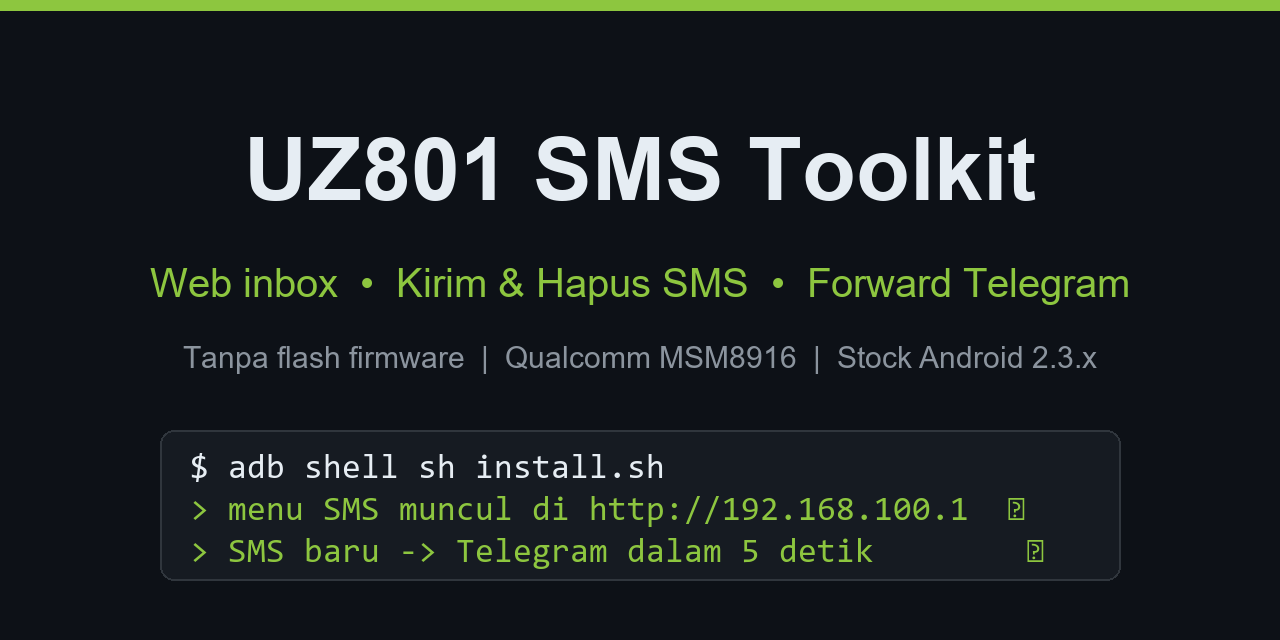
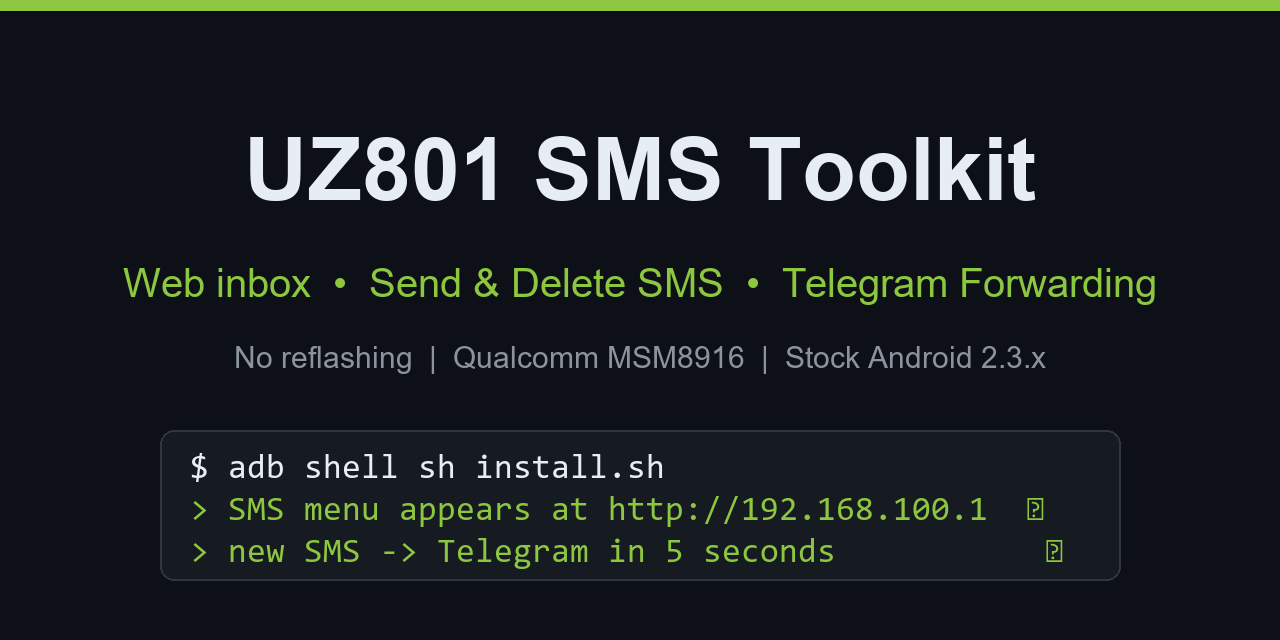
Translate README, About description and social preview to English
Targets the international hacking/modding community; repo language
is now consistently English across docs, metadata and artwork.

🤖 Generated with Codebuff

diff --git a/.github/make_social_preview.py b/.github/make_social_preview.py
@@ -1,5 +1,8 @@
 """Generate GitHub social preview image (1280x640) for uz801-tools repo."""
+import os
 from PIL import Image, ImageDraw, ImageFont
+
+OUT = os.path.join(os.path.dirname(os.path.abspath(__file__)), "social-preview.png")
 
 W, H = 1280, 640
 GREEN = (141, 198, 63)     # aksen web UI modem
@@ -26,19 +29,19 @@ def center(text, font, y, fill):
     d.text(((W - w) / 2, y), text, font=font, fill=fill)
 
 center("UZ801 SMS Toolkit", f_title, 120, WHITE)
-center("Web inbox  •  Kirim & Hapus SMS  •  Forward Telegram", f_sub, 260, GREEN)
-center("Tanpa flash firmware  |  Qualcomm MSM8916  |  Stock Android 2.3.x", f_small, 340, GRAY)
+center("Web inbox  •  Send & Delete SMS  •  Telegram Forwarding", f_sub, 260, GREEN)
+center("No reflashing  |  Qualcomm MSM8916  |  Stock Android 2.3.x", f_small, 340, GRAY)
 
 # fake terminal card
 tx, ty, tw, th = 160, 430, 960, 150
 d.rounded_rectangle([tx, ty, tx + tw, ty + th], radius=14, fill=(22, 27, 34), outline=(48, 54, 61), width=2)
 lines = [
     ("$ adb shell sh install.sh", WHITE),
-    ("> menu SMS muncul di http://192.168.100.1  ✓", GREEN),
-    ("> SMS baru -> Telegram dalam 5 detik        ✓", GREEN),
+    ("> SMS menu appears at http://192.168.100.1  ✓", GREEN),
+    ("> new SMS -> Telegram in 5 seconds           ✓", GREEN),
 ]
 for i, (t, c) in enumerate(lines):
     d.text((tx + 30, ty + 22 + i * 42), t, font=f_mono, fill=c)
 
-img.save("uz801-tools/.github/social-preview.png")
-print("saved uz801-tools/.github/social-preview.png", img.size)
+img.save(OUT)
+print("saved", OUT, img.size)

diff --git a/README.md b/README.md
@@ -1,78 +1,81 @@
 # UZ801 SMS Toolkit 📱
 
-Tambahkan fitur SMS lengkap ke modem 4G **UZ801 V3.2** (chipset Qualcomm MSM8916)
-**tanpa flash firmware** — inbox SMS tampil di web admin bawaan modem, bisa hapus/kirim
-SMS, auto-forward ke **Telegram**, plus bot dengan perintah `/refresh`.
+Add full SMS features to the **UZ801 V3.2** 4G modem (Qualcomm MSM8916)
+**without reflashing the firmware** — an SMS inbox appears in the modem's stock web
+admin, you can delete/send SMS, auto-forward incoming messages to **Telegram**, and
+control everything with a `/refresh` bot command.
 
-> Dikembangkan & diuji pada firmware stock Android `v2.3.11` (AT firmware
-> `UZ801_V3.0_21_V01R01B10`), papan `FY_UZ801_3.2`, operator Tri (Indonesia).
-> Prinsipnya seharusnya bekerja juga di firmware stock Android 2.3.x lain dan
-> dongle sejenis (UFI001B/C, UF896) — konfirmasi hasil di [Issues](https://github.com/rioadrian24/uz801-tools/issues)!
+> Developed and tested on stock Android firmware `v2.3.11` (AT firmware
+> `UZ801_V3.0_21_V01R01B10`), board `FY_UZ801_3.2`, carrier Tri (Indonesia).
+> The approach should also work on other stock Android 2.3.x builds and similar
+> dongles (UFI001B/C, UF896) — please report your results in the
+> [Issues](https://github.com/rioadrian24/uz801-tools/issues) page!
 
-## Fitur
+## Features
 
-| Fitur | Keterangan |
+| Feature | Details |
 |---|---|
-| 🖥 **Web inbox** | Menu **SMS** baru di web admin modem (`http://192.168.100.1`), auto-refresh 10 detik |
-| 🗑 **Hapus SMS** | Per pesan, langsung dari database Android |
-| ✉ **Kirim SMS** | Dari web UI (teks ASCII) |
-| 🤖 **Forward Telegram** | SMS masuk otomatis diteruskan ke chat Telegram Anda dalam ~5–10 detik |
-| 💬 **Bot dua arah** | `/refresh`, `/status`, `/help` dibalas langsung oleh modem |
-| 🔄 **Self-healing** | Watchdog memulihkan semuanya tiap 10 detik & setelah reboot |
-| 🔒 **Tanpa flash** | Firmware tidak diubah; uninstall mengembalikan 100% kondisi awal |
+| 🖥 **Web inbox** | New **SMS** menu in the modem's web admin (`http://192.168.100.1`), 10-second auto-refresh |
+| 🗑 **Delete SMS** | Per message, straight from the Android database |
+| ✉ **Send SMS** | From the web UI (ASCII text) |
+| 🤖 **Telegram forwarding** | Incoming SMS pushed to your Telegram chat within ~5–10 seconds |
+| 💬 **Two-way bot** | `/refresh`, `/status`, `/help` answered by the modem itself |
+| 🔄 **Self-healing** | Watchdog restores everything every 10 seconds and after reboots |
+| 🔒 **No flashing** | Firmware untouched; uninstall restores 100% stock |
 
-## Cara kerja (kenapa ini tidak standar)
+## How it works (why this is non-obvious)
 
-Web UI bawaan UZ801 adalah **Jetty embedded** di dalam aplikasi Android
-`com.mifiservice.hello`, yang menyajikan file dari
-`/data/data/com.mifiservice.hello/files/jetty2/`. Webroot ini **di-extract ulang dari
-APK setiap boot** — dan framework Android (RIL, `CNMI=0,0,0,0,0`) **mengonsumsi semua
-SMS masuk** ke database `mmssms.db`, sehingga SMS tidak pernah tersimpan di SIM/ME
-yang bisa dibaca lewat perintah AT (`AT+CMGL` selalu kosong!).
+The stock UZ801 web UI is an **embedded Jetty** server inside the Android app
+`com.mifiservice.hello`, serving files from
+`/data/data/com.mifiservice.hello/files/jetty2/`. This webroot is **re-extracted from
+the APK on every boot**. Meanwhile the Android framework (RIL, `CNMI=0,0,0,0,0`)
+**consumes every incoming SMS** into the `mmssms.db` database — SMS are never stored
+in the SIM/ME storage readable via AT commands (`AT+CMGL` is always empty!).
 
-Solusinya:
+The solution:
 
 ```
-boot → initmifiservice.sh → boot.sh → watch.sh (watchdog, self-healing tiap 10 dtk)
+boot → initmifiservice.sh → boot.sh → watch.sh (watchdog, self-heals every 10s)
                                         │
         ┌───────────────────────────────┼─────────────────────────────┐
         ▼                               ▼                             ▼
-  smsd.sh (poll 5 dtk)          httpd :8080 (CGI API)        tg_fwd.sh + tg_listener.sh
-  baca mmssms.db →              hapus / kirim / refresh      forward SMS baru +
-  inbox.json di webroot         (akses AT via lock)          jawab /refresh via bot
+  smsd.sh (5s poll)             httpd :8080 (CGI API)        tg_fwd.sh + tg_listener.sh
+  reads mmssms.db →             delete / send / refresh      forwards new SMS +
+  inbox.json in webroot         (AT access via lock)         answers /refresh
         │
         ▼
-  Jetty webroot → halaman sms.html + menu "SMS" di main.html (di-patch)
+  Jetty webroot → sms.html page + "SMS" menu patched into main.html
 ```
 
-Karena backend firmware tidak punya API SMS sama sekali (hanya tersisa `smsHandler.js`
-kosong dan link `inbox.asp` ter-comment di `main.html` dari firmware lama), seluruh
-backend dibangun dari nol dengan shell script + busybox + `sqlite3` bawaan firmware.
+The stock backend has no SMS API at all (only leftover artifacts: an empty
+`smsHandler.js` and a commented-out `inbox.asp` link in `main.html` from an older
+firmware generation), so the entire backend is built from scratch with shell scripts +
+busybox + the firmware's own `sqlite3`.
 
-## Persyaratan
+## Requirements
 
-- Modem UZ801 dengan **firmware stock** (Android-based, bukan OpenStick/Debian) + SIM aktif
-- PC dengan **adb** (Android platform-tools)
-- Koneksi WiFi ke modem (default SSID `4G-UFI-XX`)
-- Opsional: akun Telegram untuk fitur forward
+- UZ801 modem running **stock firmware** (Android-based, not OpenStick/Debian) + active SIM
+- PC with **adb** (Android platform-tools)
+- WiFi connection to the modem (default SSID `4G-UFI-XX`)
+- Optional: a Telegram account for forwarding
 
-## Instalasi
+## Installation
 
-### 1. Aktifkan ADB di modem (sekali saja)
+### 1. Enable ADB on the modem (one time only)
 
-1. Tancapkan modem ke PC/charger, tunggu boot selesai (LED biru)
-2. Dari PC, konek ke WiFi modem, lalu buka di browser:
+1. Plug the modem into a PC/charger and let it fully boot (blue LED)
+2. From the PC, join the modem's WiFi, then open in a browser:
    ```
    http://192.168.100.1/usbdebug.html
    ```
-   (halaman kosong = normal). Modem akan reboot.
-3. Setelah nyala lagi, cek dari PC:
+   (an empty page is normal). The modem reboots.
+3. Once it's back up, verify from the PC:
    ```bash
-   adb devices      # harus muncul 0123456789ABCDEF device
-   adb shell id     # uid=0(root) — shell adb di firmware ini sudah root
+   adb devices      # should show 0123456789ABCDEF device
+   adb shell id     # uid=0(root) — the adb shell on this firmware is already root
    ```
 
-### 2. Clone & push file ke modem
+### 2. Clone and push files to the modem
 
 ```bash
 git clone https://github.com/rioadrian24/uz801-tools
@@ -82,8 +85,9 @@ adb shell mkdir -p /data/local/tmp/smsui
 adb push smsui/* /data/local/tmp/smsui/
 adb push main_orig.html /data/local/tmp/smsui/main_orig.html
 
-# Pengguna Git Bash/Windows wajib: export MSYS_NO_PATHCONV=1
-# sebelum perintah adb yang mengandung path /data/...
+# Git Bash / Windows users MUST run this first,
+# otherwise adb rewrites /data/... paths:
+export MSYS_NO_PATHCONV=1
 ```
 
 ### 3. Install
@@ -92,50 +96,50 @@ adb push main_orig.html /data/local/tmp/smsui/main_orig.html
 adb shell "sh /data/local/tmp/smsui/install.sh"
 ```
 
-Installer akan: menyalin aplikasi ke `/data/smsui`, mem-backup boot script
-(`initmifiservice.sh.orig`), menambahkan hook `sh /data/smsui/boot.sh &`, lalu
-mengaktifkan semuanya langsung. Selesai — **±30 detik**.
+The installer copies the app to `/data/smsui`, backs up the boot script
+(`initmifiservice.sh.orig`), appends the hook `sh /data/smsui/boot.sh &`, and
+activates everything immediately. Done — takes **~30 seconds**.
 
-### 4. Cek hasilnya
+### 4. Verify
 
-- Buka `http://192.168.100.1` (login `admin`) → ada menu **SMS** di sidebar, atau
-  langsung `http://192.168.100.1/sms.html`
-- Kirim SMS ke nomor modem → muncul di inbox ≤10 detik
+- Open `http://192.168.100.1` (login `admin`) → a new **SMS** menu appears in the
+  sidebar, or go straight to `http://192.168.100.1/sms.html`
+- Send an SMS to the modem's number → it shows up in the inbox within ≤10 seconds
 
-### 5. (Opsional) Forward ke Telegram
+### 5. (Optional) Telegram forwarding
 
-1. Buat bot: chat [@BotFather](https://t.me/BotFather) → `/newbot` → salin **token**
-2. Ambil chat ID: chat [@userinfobot](https://t.me/userinfobot) → salin angka **Id**
-3. **Kirim `/start` ke bot Anda** (wajib, agar bot boleh mengirim ke Anda)
-4. Tulis konfigurasi:
+1. Create a bot: chat with [@BotFather](https://t.me/BotFather) → `/newbot` → copy the **token**
+2. Get your chat ID: chat with [@userinfobot](https://t.me/userinfobot) → copy the numeric **Id**
+3. **Send `/start` to your bot** (required, otherwise it cannot message you)
+4. Write the config:
    ```bash
-   adb shell "busybox printf 'TG_BOT_TOKEN=<TOKEN_ANDA>\nTG_CHAT_ID=<ID_ANDA>\n' > /data/smsui/tg.conf"
+   adb shell "busybox printf 'TG_BOT_TOKEN=<YOUR_TOKEN>\nTG_CHAT_ID=<YOUR_ID>\n' > /data/smsui/tg.conf"
    adb shell "busybox chmod 600 /data/smsui/tg.conf"
    ```
-5. Watchdog otomatis menjalankan forwarder ≤10 detik kemudian. Selesai!
+5. The watchdog starts the forwarder automatically within 10 seconds. Done!
 
-## Pemakaian
+## Usage
 
-**Web** — inbox auto-refresh, tombol *Refresh* (sinkron paksa), *delete*, *Send SMS*.
+**Web** — inbox auto-refreshes; buttons: *Refresh* (forced sync), *delete*, *Send SMS*.
 
-**Bot Telegram** — kirim ke bot Anda:
+**Telegram bot** — send to your bot:
 
-| Perintah | Efek |
+| Command | Effect |
 |---|---|
-| `/refresh` | Sinkron inbox + teruskan SMS yang belum terkirim |
-| `/status` | Jumlah SMS, ID terakhir diteruskan, uptime modem |
-| `/help` | Daftar perintah |
+| `/refresh` | Sync inbox + forward any not-yet-forwarded SMS now |
+| `/status` | SMS count, last forwarded ID, modem uptime |
+| `/help` | Command list |
 
-**CLI** (tanpa web):
+**CLI** (no web UI):
 
 ```bash
 adb push sms/sms.sh /data/local/tmp/sms.sh
-adb shell sh /data/local/tmp/sms.sh info        # info modem/SIM/sinyal
-adb shell sh /data/local/tmp/sms.sh list me     # daftar SMS (bila tersimpan di ME)
-adb shell sh /data/local/tmp/sms.sh raw 'AT+CSQ;AT+COPS?'   # AT bebas
+adb shell sh /data/local/tmp/sms.sh info        # modem/SIM/signal info
+adb shell sh /data/local/tmp/sms.sh list me     # list SMS (when stored in ME)
+adb shell sh /data/local/tmp/sms.sh raw 'AT+CSQ;AT+COPS?'   # free-form AT
 ```
 
-**API** (JSON, tanpa auth — lihat catatan keamanan):
+**API** (JSON, no auth — see security notes):
 
 ```
 http://192.168.100.1:8080/cgi-bin/api?action=refresh
@@ -150,65 +154,66 @@ adb shell "sh /data/smsui/uninstall.sh"
 adb reboot
 ```
 
-Boot script dikembalikan dari backup, semua file injected dibersihkan — web UI kembali
-100% stock.
+The boot script is restored from backup and all injected files are removed — the web
+UI returns to 100% stock.
 
 ## Troubleshooting
 
-| Gejala | Solusi |
+| Symptom | Fix |
 |---|---|
-| `adb devices` kosong / unauthorized | Ulangi langkah usbdebug; coba USB port/kabel lain |
-| Menu SMS hilang setelah beberapa menit | Webroot di-re-extract app; watchdog akan memulihkan ≤10 dtk. Pastikan `watch.sh` hidup: `adb shell "busybox ps \| busybox grep watch"` |
-| Inbox kosong terus | SMS tersimpan di database: cek `adb shell "sqlite3 /data/data/com.android.providers.telephony/databases/mmssms.db 'SELECT count(*) FROM sms WHERE type=1;'"` |
-| `API unreachable` di web | Pastikan `httpd :8080` hidup & CGI executable: `adb shell "busybox chmod 755 /data/smsui/www/cgi-bin/api"` |
-| Telegram tidak terkirim | Kirim `/start` ke bot dulu; cek `tg.conf` terisi; cek manual: `adb shell ". /data/smsui/smslib.sh && tg_load_conf && forward_pending; echo $?; cat /data/smsui/tg.state"` |
-| Bot tidak membalas | Chat ID di `tg.conf` harus persis sama dengan ID Anda (hanya owner yang dilayani) |
-| Setelah update file di repo tidak berubah di modem | File aktif ada di `/data/smsui/` — salin ulang, watchdog yang menyebarkan ke webroot |
+| `adb devices` empty / unauthorized | Redo the usbdebug step; try another USB port/cable |
+| SMS menu disappears after a while | The app re-extracted its webroot; the watchdog restores it within 10s. Check: `adb shell "busybox ps \| busybox grep watch"` |
+| Inbox stays empty | SMS live in the database: `adb shell "sqlite3 /data/data/com.android.providers.telephony/databases/mmssms.db 'SELECT count(*) FROM sms WHERE type=1;'"` |
+| `API unreachable` in the web UI | Ensure `httpd :8080` is up and the CGI is executable: `adb shell "busybox chmod 755 /data/smsui/www/cgi-bin/api"` |
+| Telegram not delivering | Send `/start` to your bot first; check `tg.conf`; test manually: `adb shell ". /data/smsui/smslib.sh && tg_load_conf && forward_pending; echo $?; cat /data/smsui/tg.state"` |
+| Bot never replies | The chat ID in `tg.conf` must exactly match your own ID (only the owner is served) |
+| Changes to repo files don't show on the modem | The active files live in `/data/smsui/` — copy them again; the watchdog distributes them to the webroot |
 
-## ⚠ Catatan keamanan (baca sebelum dipakai)
+## ⚠ Security notes (read before using)
 
-- **Tidak ada autentikasi** pada `inbox.json` dan API `:8080` — **siapa pun yang terhubung
-  ke WiFi modem bisa membaca semua SMS Anda** (termasuk OTP). Ini sama seperti web admin
-  bawaan yang hanya dilindungi password `admin`. Jangan gunakan WiFi modem terbuka di
-  tempat umum, dan pertimbangkan mengubah password WiFi.
-- Token bot disimpan di `/data/smsui/tg.conf` (permission 600, hanya root). Bot menerima
-  **semua** SMS termasuk OTP — jangan sebarkan token; gunakan `/revoke` di @BotFather bila
-  token pernah bocor.
-- Root shell via ADB tetap aktif setelah instalasi (memang syarat kerjanya). Ini normal
-  untuk perangkat eksperimen, tapi berarti PC mana pun yang menancap ke modem punya akses root.
+- **No authentication** on `inbox.json` or the `:8080` API — **anyone connected to the
+  modem's WiFi can read all your SMS** (including OTP codes). This is no worse than the
+  stock web admin protected only by the default `admin` password, but be aware. Avoid
+  using the modem's open WiFi in public places and consider changing the WiFi password.
+- The bot token is stored in `/data/smsui/tg.conf` (mode 600, root-only). The bot
+  receives **all** SMS including OTPs — never share the token; use `/revoke` at
+  @BotFather if it ever leaks.
+- Root ADB shell stays enabled after installation (it's a prerequisite). Normal for an
+  experimental device, but it means any PC plugged into the modem gets root access.
 
-## Quirk firmware (untuk kontributor)
+## Firmware quirks (for contributors)
 
-Firmware ini sangat terpotong; banyak jebakan yang sudah ditangani di kode —
-penting diketahui bila ingin memodifikasi:
+This firmware is extremely stripped down; the code works around several traps —
+good to know before modifying anything:
 
-- `sqlite3` **tanpa** `char()`, `strtonum()` tidak ada di busybox `awk`, `flock`
-  **rusak total** (diganti lock `mkdir` atomik), output `sqlite3` **tanpa newline
-  akhir** (baris terakhir terlewat oleh `while read`), `sed` tidak berguna untuk
-  JSON multi-baris (pakai `grep -o`), `printf`/`head`/`tail`/`timeout` hanya ada
-  lewat `busybox`, dan webroot di-extract ulang tiap boot sehingga butuh watchdog.
+- `sqlite3` has **no** `char()` function; busybox `awk` has no `strtonum()`;
+  `flock` is **completely broken** (replaced with atomic `mkdir` locks);
+  `sqlite3` output has **no trailing newline** (the last row gets skipped by
+  `while read`); `sed` cannot parse multi-line JSON (use `grep -o`);
+  `printf`/`head`/`tail`/`timeout` only exist via `busybox`; and the webroot is
+  re-extracted on every boot, which is why the watchdog exists.
 
-## Struktur repo
+## Repository layout
 
 ```
 sms/
 ├── sms.sh              CLI reader via AT channel /dev/smd11
-├── main_orig.html      Salinan webroot asli (dasar patch menu)
+├── main_orig.html      Copy of the pristine webroot (menu-patch base)
 └── smsui/
-    ├── smslib.sh       Library inti: AT session, sync DB→inbox.json, TG helpers, locking
-    ├── smsd.sh         Poll database → inbox.json (tiap 5 dtk)
-    ├── api_cgi.sh      CGI API :8080 (refresh/delete/send)
-    ├── watch.sh        Watchdog self-healing (tiap 10 dtk)
-    ├── boot.sh         Entry point dari initmifiservice.sh
+    ├── smslib.sh       Core library: AT session, DB→inbox.json sync, TG helpers, locking
+    ├── smsd.sh         Database poller → inbox.json (every 5s)
+    ├── api_cgi.sh      CGI API on :8080 (refresh/delete/send)
+    ├── watch.sh        Self-healing watchdog (every 10s)
+    ├── boot.sh         Entry point called from initmifiservice.sh
     ├── install.sh / uninstall.sh
-    ├── sms.html / sms.js  Halaman inbox web
-    ├── tg_fwd.sh       Forwarder SMS → Telegram
-    ├── tg_listener.sh  Bot command (/refresh /status /help)
-    └── tg.conf.example Contoh konfigurasi Telegram
+    ├── sms.html / sms.js  Web inbox page
+    ├── tg_fwd.sh       SMS → Telegram forwarder
+    ├── tg_listener.sh  Bot commands (/refresh /status /help)
+    └── tg.conf.example Telegram config example
 ```
 
-## Kredit & lisensi
+## Credits & license
 
-Riset komunitas UZ801: [AlienWolfX/UZ801-USB-MODEM](https://github.com/AlienWolfX/UZ801-USB-MODEM),
+UZ801 community research: [AlienWolfX/UZ801-USB-MODEM](https://github.com/AlienWolfX/UZ801-USB-MODEM),
 [OpenStick](https://github.com/OpenStick), [Rayhunter (EFF)](https://efforg.github.io/rayhunter/uz801.html),
-[EDL tool](https://github.com/bkerler/edl). Gunakan dengan bijak — risiko ditanggung sendiri.
+[EDL tool](https://github.com/bkerler/edl). Use responsibly — at your own risk.
